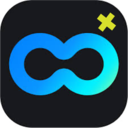
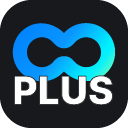
Change/25 style (#27)
* 배경색을 Soop 홈페이지 배경색과 동일하게 변경

* change: 콜렉터 상하 이동 버튼 hover 스타일 다른 버튼과 동일하게 표시되도록 수정

* change: 확장프로그램 아이콘 변경

* 로고 변경

* UI 중앙 배치

* Input, button 스타일 조정

diff --git a/src/App.tsx b/src/App.tsx
@@ -253,16 +253,18 @@ export default function App(props: {
                 justifyContent: "start",
             }}
         >
-            <div>
+            <div
+                style={{
+                    margin: '0 auto',
+                }}
+            >
                 <header
                     className="header"
                     style={{
-                        fontSize: "1.5rem",
-                        fontWeight: "bold",
-                        marginBottom: "10px",
+                        marginBottom: "20px",
                     }}
                 >
-                    <span>SOOP Plus</span>
+                    <img src="/logo.png" width="160"/>
                 </header>
                 <div style={{
                     display: "flex",
@@ -274,9 +276,9 @@ export default function App(props: {
                         id="go-home"
                         style={{
                             marginLeft: "5px",
-                            color: "#000",
+                            color: "#0c0d0e",
                             background: "linear-gradient(#058CFF, #05ACFF, #1FF4EC)",
-                            borderRadius: "15px",
+                            borderRadius: "8px",
                             border: "none",
                             padding: "0.5rem 1rem",
                             fontSize: ".875rem",
@@ -291,9 +293,9 @@ export default function App(props: {
                         id="go-issue"
                         style={{
                             marginLeft: "5px",
-                            color: "#000",
+                            color: "#0c0d0e",
                             background: "linear-gradient(#058CFF, #05ACFF, #1FF4EC)",
-                            borderRadius: "15px",
+                            borderRadius: "8px",
                             border: "none",
                             padding: "0.5rem 1rem",
                             fontSize: ".875rem",
@@ -396,7 +398,7 @@ export default function App(props: {
                             onKeyUp={addNickEnterClick}
                             style={{
                                 border: "0",
-                                borderRadius: "15px",
+                                borderRadius: "8px",
                                 outline: "none",
                                 backgroundColor: "#e9e9e9",
                                 paddingLeft: "10px",
@@ -408,9 +410,9 @@ export default function App(props: {
                             id="add-btn"
                             style={{
                                 marginLeft: "5px",
-                                color: "#000",
+                                color: "#0c0d0e",
                                 background: "linear-gradient(#058CFF, #05ACFF, #1FF4EC)",
-                                borderRadius: "15px",
+                                borderRadius: "8px",
                                 border: "none",
                                 padding: "0.5rem 1rem",
                                 fontSize: ".875rem",
@@ -431,7 +433,7 @@ export default function App(props: {
                             onKeyUp={addIdEnterClick}
                             style={{
                                 border: "0",
-                                borderRadius: "15px",
+                                borderRadius: "8px",
                                 outline: "none",
                                 backgroundColor: "#e9e9e9",
                                 paddingLeft: "10px",
@@ -444,9 +446,9 @@ export default function App(props: {
                             id="add-btn"
                             style={{
                                 marginLeft: "5px",
-                                color: "#000",
+                                color: "#0c0d0e",
                                 background: "linear-gradient(#058CFF, #05ACFF, #1FF4EC)",
-                                borderRadius: "15px",
+                                borderRadius: "8px",
                                 border: "none",
                                 padding: "0.5rem 1rem",
                                 fontSize: ".875rem",

diff --git a/src/chat.tsx b/src/chat.tsx
@@ -318,7 +318,7 @@ function CollectorChange() {
     // tooltip.innerText = "콜렉터 상하변경"
     // tooltip.style.setProperty('transform', 'translate(-80%, 0)');
 
-    const collectorChangeButton = document.createElement('button');
+    const collectorChangeButton = document.createElement('a');
     collectorChangeButton.addEventListener('click', (e) => {
         e.preventDefault()
         try {
@@ -343,10 +343,13 @@ function CollectorChange() {
         } catch (err) {
         }
     });
-    collectorChangeButton.style.setProperty('width', '21px');
-    collectorChangeButton.style.setProperty('height', '21px');
+    collectorChangeButton.style.setProperty('width', '32px');
+    collectorChangeButton.style.setProperty('height', '32px');
+    collectorChangeButton.style.setProperty('display', 'flex');
+    collectorChangeButton.style.setProperty('align-items', 'center');
+    collectorChangeButton.style.setProperty('justify-content', 'center');
     collectorChangeButton.innerHTML =
-        "<svg id=\"Layer_1\" style=\"enable-background:new 0 0 120 120;\" version=\"1.1\" viewBox=\"0 0 120 120\" xml:space=\"preserve\" xmlns=\"http://www.w3.org/2000/svg\" xmlns:xlink=\"http://www.w3.org/1999/xlink\"><style type=\"text/css\">\n" +
+        "<svg id=\"Layer_1\" style=\"enable-background:new 0 0 120 120; width:21px; height:21px;\" version=\"1.1\" viewBox=\"0 0 120 120\" xml:space=\"preserve\" xmlns=\"http://www.w3.org/2000/svg\" xmlns:xlink=\"http://www.w3.org/1999/xlink\"><style type=\"text/css\">\n" +
         "\t.st0{fill:none;}\n" +
         "\t.st1{fill:#386BFF;}\n" +
         "\t.st2{fill:#5DE88B;}\n" +
@@ -366,6 +369,9 @@ function CollectorChange() {
     // playerItemListUL?.appendChild(li);
     if (cloneNode != null) {
         start?.insertAdjacentElement('beforebegin', cloneNode);
+        
+        // ClassName 제거 - 남아있으면 별풍선 아이콘 생김
+        cloneNode.classList.remove("star")
     }
 }
 

diff --git a/public/index.html b/public/index.html
@@ -10,7 +10,7 @@
     />
     <title><%=mode%></title>
 </head>
-<body style="background: black">
+<body style="background: #0c0d0e">
 <main id="root"></main>
 <script src="./main.js"></script>
 </body>
